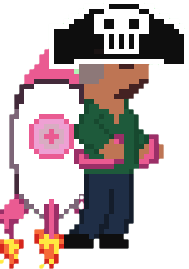
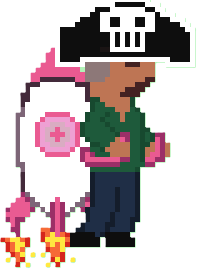
Fixed pictures of the character with hat

Changed region(s): [[0.0, 0.0, 1.0, 1.0]]

diff --git a/src/main/java/inf112/rocketman/view/assets/RocketManAssets.java b/src/main/java/inf112/rocketman/view/assets/RocketManAssets.java
@@ -18,7 +18,7 @@ import java.util.Map;
  * textures and fonts.</p>
  */
 public class RocketManAssets implements TextureProvider {
-    private Map<String, Texture> textures = new HashMap<>();
+    private final Map<String, Texture> textures = new HashMap<>();
     private BitmapFont font;
     private BitmapFont titleFont;
 
@@ -57,7 +57,7 @@ public class RocketManAssets implements TextureProvider {
                 "obstacles/flame.png",
                 "obstacles/coin.png",
                 "powerups/run1.png", "powerups/run2.png", "powerups/run3.png", "powerups/run4.png", "powerups/fly.png", "powerups/fly_flame.png",
-                "tpowah/run1pirate.png", "tpowah/run2pirate.png", "tpowah/run3pirate.png", "tpowah/jetpack_flames_pirate.png",
+                "tpowah/run1pirate.png", "tpowah/run2pirate.png", "tpowah/run3pirate.png", "tpowah/run4pirate.png", "tpowah/jetpack_flames_pirate.png", "tpowah/jetpack_pirate.png",
                 "powerups/birdUp_pirate.png", "powerups/bird_pirate.png",
                 "powerups/gravity1.png", "powerups/gravity2.png", "powerups/gravity3.png", "powerups/gravity4.png",
                 "powerups/gravityUP1.png", "powerups/gravityUP2.png", "powerups/gravityUP3.png", "powerups/gravityUP4.png",

diff --git a/src/main/java/inf112/rocketman/view/rendering/PlayerRenderer.java b/src/main/java/inf112/rocketman/view/rendering/PlayerRenderer.java
@@ -44,7 +44,7 @@ public class PlayerRenderer {
                 new TextureRegion(textures.getTexture("tpowah/run1pirate.png")),
                 new TextureRegion(textures.getTexture("tpowah/run2pirate.png")),
                 new TextureRegion(textures.getTexture("tpowah/run3pirate.png")),
-                new TextureRegion(textures.getTexture("tpowah/run2pirate.png"))
+                new TextureRegion(textures.getTexture("tpowah/run4pirate.png"))
         );
 
         birdAnimationPirate = new Animation<>(0.2f,
@@ -140,7 +140,7 @@ public class PlayerRenderer {
             }
         } else {
             if (hasPirateHat) {
-                playerImg = "tpowah/run2pirate.png";
+                playerImg = "tpowah/jetpack_pirate.png";
             } else {
                 playerImg = "tpowah/jetpack.png";
             }
